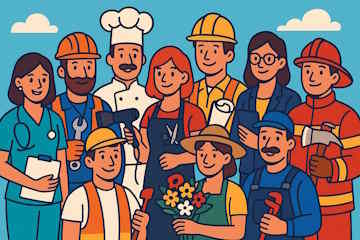
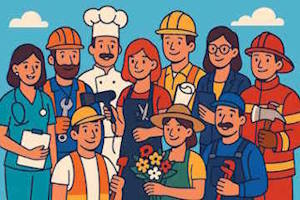
petite modifaication css

diff --git a/ReactCoreCerebral/ClientApp/src/components/principal/PresentationTemps.js b/ReactCoreCerebral/ClientApp/src/components/principal/PresentationTemps.js
@@ -72,7 +72,7 @@ this.nomMois = moisEnFrancais[d.getMonth()];
         <p>À l'ère numérique actuelle, où nos esprits sont constamment sollicités par une multitude d'informations, la pratique de jeux cognitifs apparait comme une stratégie intelligente pour stimuler et développer notre cerveau. Ces jeux, conçus pour engager activement les processus mentaux, offrent bien plus qu'une simple distraction ludique.</p>
       <h2>Détermine ton avenir professionnel !</h2>
       <p>Plus besoin d'orientation, nous pouvons désormais déterminer les métiers qui te conviennent le mieux. À partir des résultats de nos tests, ChatGPT te donne désormais les métiers pour lesquels tu es le plus qualifié. Seras-tu chercheur ou artiste de rue ?</p>
-          <div className="centre"><img src={metiers} width="360" height="240" alt="liste des métiers"></img></div>
+          <div className="centre"><img src={metiers} width="300" height="200" alt="liste des métiers"></img></div>
     </div>
     <p className="centre fontMoyenne">Pratique un jeu par jour pendant un mois, c'est bon pour le cerveau, et à la fin, on te dit tout de ton avenir professionnel !</p>
     <p className="centre">Les résultats des premiers participants : Lilli55 sera <b>chercheur(se) en neurosciences</b>, Pantx sera <b>consultant(e) en stratégie</b>, marc sera <b>aide-soignant</b>, Pirouette sera <b>commis de cuisine</b>. Et toi ? </p>

diff --git a/ReactCoreCerebral/ClientApp/src/style/vitesse.css b/ReactCoreCerebral/ClientApp/src/style/vitesse.css
@@ -195,6 +195,10 @@
         width: 95%;
 
     }
+    .defiVitesse {
+   flex-direction: column;
+
+}
 }
 
 /* @media screen and (max-width: 1200px) {
